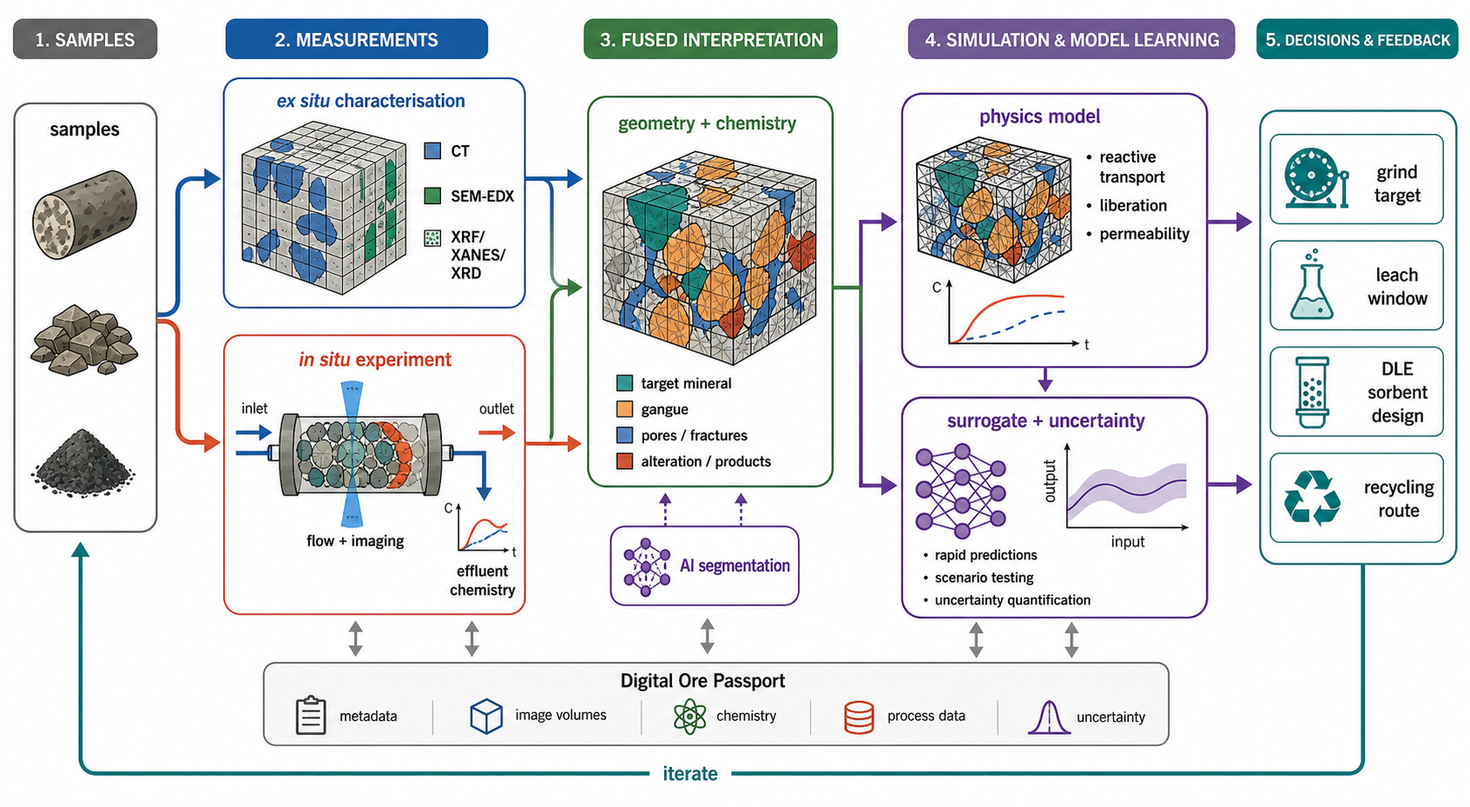
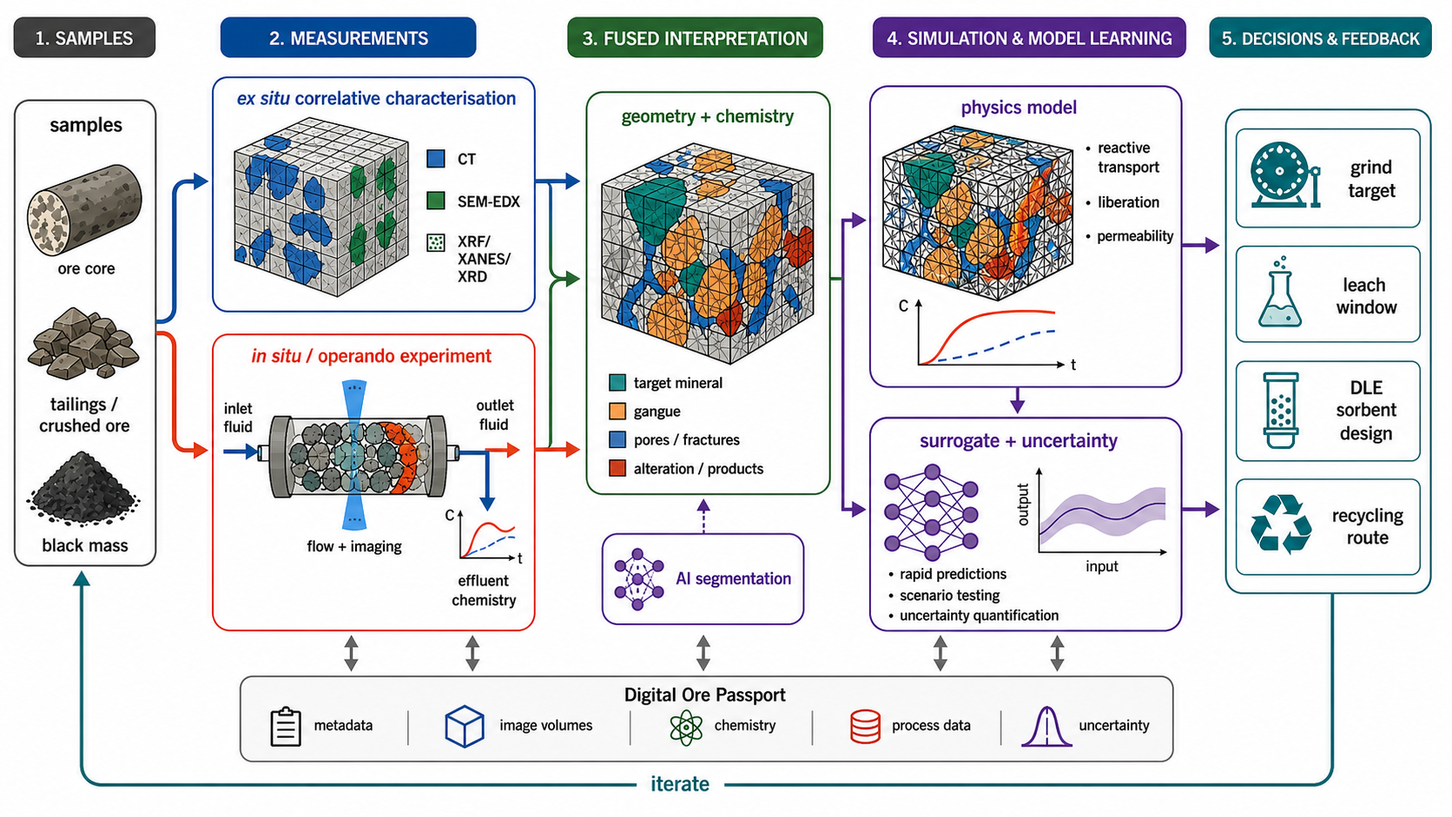
Incorporate coauthor revisions and update workflow figure

Changed region(s): [[0.0, 0.0, 0.9952, 0.9677]]

diff --git a/white_paper.tex b/white_paper.tex
@@ -22,7 +22,7 @@
 
 \title{\textbf{Unlocking the Microscale: How Digital Rock Physics Can Secure Supply Chains for UK and European Critical Minerals}}
 \author{%
-Hannah P. Menke$^{1,2}$, Alessio Scanziani$^{3}$, Maja Rücker$^{4,5}$\\[0.7em]
+Hannah P. Menke$^{1,2}$, Alessio Scanziani$^{3}$, Maja Rücker$^{4,5,6}$\\[0.7em]
 \begin{tabular}{c}
 \small $^{1}$Institute of GeoEnergy Engineering, Heriot-Watt University, Edinburgh, UK\\
 \small $^{2}$Subsurface Energy Transition and Innovation Centre,\\
@@ -30,7 +30,9 @@ Hannah P. Menke$^{1,2}$, Alessio Scanziani$^{3}$, Maja Rücker$^{4,5}$\\[0.7em]
 \small $^{3}$International Energy Agency, Paris, France\\
 \small $^{4}$Eindhoven University of Technology, Mechanical Engineering,\\
 \small 5600 MB, Eindhoven, The Netherlands\\
-\small $^{5}$Max Planck Institute for Polymer Research, 55128, Mainz, Germany
+\small $^{5}$Eindhoven Institute for Renewable Energy Systems,\\
+\small 5600 MB, Eindhoven, The Netherlands\\
+\small $^{6}$Max Planck Institute for Polymer Research, 55128, Mainz, Germany
 \end{tabular}}
 \date{\today}
 
@@ -39,20 +41,20 @@ Hannah P. Menke$^{1,2}$, Alessio Scanziani$^{3}$, Maja Rücker$^{4,5}$\\[0.7em]
 \maketitle
 
 \begin{abstract}
-The United Kingdom and Europe face acute supply chain vulnerabilities for Critical Raw Materials (CRMs) essential to the energy transition, high-tech industry, and defence. While the EU Critical Raw Materials Act (CRMA) sets 2030 benchmarks for domestic extraction, processing, and recycling, the UK's Vision 2035 sets a 2035 ambition for at least 10\% of aggregate annual UK critical-mineral demand to be met through domestic production, alongside greater circularity and supply-chain resilience. Many prospective regional resources remain underexplored, texturally complex, historically worked, or economically less forgiving than the globally dominant deposits that currently set market terms \cite{albert_crm_europe_2025, bgs_uk_crm_2022, uk_vision_2035_2026}. In such settings, even modest improvements in liberation, selectivity, recovery, and environmental performance can materially affect project viability. Yet many of the resulting decisions, from orebody evaluation to liberation, leaching, and recycling-route selection, are still made with limited three-dimensional information about texture, connectivity, and reactive pathways. The ``Digital Rocks'' or Digital Rock Physics (DRP) community, historically anchored in oil and gas, already offers a multiscale toolkit of 3D imaging, correlative chemistry, AI-enabled image analysis, and numerical modelling that can help close that gap. This white paper sets out a DRP-led framework linking those capabilities to ore characterisation, extraction technologies such as Direct Lithium Extraction (DLE), and mine waste valorisation. In this role, DRP could shorten evaluation times, reduce environmental impacts, strengthen environmental accountability, and strengthen the UK's and Europe's technological position in the race for secure, sustainable critical minerals.
+The United Kingdom and Europe face acute supply chain vulnerabilities for Critical Raw Materials (CRMs) essential to the energy transition, high-tech industry, and defence. While the EU Critical Raw Materials Act (CRMA) sets 2030 benchmarks for domestic extraction, processing, and recycling, the UK's Vision 2035 sets a 2035 ambition for at least 10\% of aggregate annual UK critical-mineral demand to be met through domestic production, alongside greater circularity and supply-chain resilience. Many prospective regional resources remain underexplored, texturally complex, historically worked, or economically less forgiving than the globally dominant deposits that currently set market terms \cite{albert_crm_europe_2025, bgs_uk_crm_2022, uk_vision_2035_2026}. In such settings, even modest improvements in liberation, selectivity, recovery, and environmental performance can materially affect project viability. Yet many of the resulting decisions, from orebody evaluation to liberation, leaching, and recycling-route selection, are still made with limited three-dimensional information about texture, connectivity, and reactive pathways. The ``Digital Rocks'' or Digital Rock Physics (DRP) community, historically anchored in oil and gas, already offers a multiscale toolkit of 3D imaging, correlative chemistry, AI-enabled image analysis, and numerical modelling that can help close that gap. This paper sets out a DRP-led framework linking those capabilities to ore characterisation, extraction technologies such as Direct Lithium Extraction (DLE), and mine waste valorisation. In this role, DRP could shorten evaluation times, reduce environmental impacts, strengthen environmental accountability, and strengthen the UK's and Europe's technological position in the race for secure, sustainable critical minerals.
 \end{abstract}
 
 \section{Context: The Geopolitical Imperative and the Global Race}
-The global transition to clean energy technologies has triggered rapidly rising demand for critical minerals such as lithium, cobalt, rare earth elements (REEs), and graphite. Recent review literature places this challenge in a wider geopolitical and technological context, emphasizing both resource security and processing capability as core bottlenecks \cite{reich_critical_2025}. Global lithium demand, for example, surged by nearly 30\% in 2024, even as mining exploration activity plateaued and investment growth slowed markedly \cite{iea_outlook_2025}. Consequently, achieving higher recovery and better resource efficiency from existing deposits is increasingly important, particularly in regions where the central challenge is not the absolute absence of mineralisation but the difficulty of turning complex occurrences into robust projects.
+The global transition to clean energy technologies has triggered rapidly rising demand for critical minerals such as copper, lithium, nickel, cobalt, rare earth elements (REEs), and graphite. Demand for other base metals such as aluminium and zinc, and strategic minor minerals such as titanium, tungsten, germanium, gallium, and antimony, is also rising because of expanding high-tech, aerospace, and defence sectors. Recent review literature places this challenge in a wider geopolitical and technological context, emphasizing both resource security and processing capability as core bottlenecks \cite{reich_critical_2025}. Global lithium demand, for example, surged by nearly 30\% in 2024, even as mining exploration activity plateaued and investment growth slowed markedly. Electrification of end uses is also driving increasing demand for copper; based on the current mine-project pipeline, a supply gap of up to 30\% could emerge by 2035, partly due to declining ore grades \cite{iea_outlook_2025}. Consequently, achieving higher recovery and better resource efficiency from existing deposits is increasingly important, particularly in regions where the central challenge is not the absolute absence of mineralisation but the difficulty of turning complex occurrences into robust projects.
 
 Compounding this issue is the hyper-concentration of the market. The IEA reports that the average market share of the top three refining nations for key energy minerals rose to 86\% in 2024 \cite{iea_outlook_2025}. In response, the EU Critical Raw Materials Act (CRMA) established 2030 benchmarks requiring 10\% extraction, 40\% processing, and 25\% recycling to occur domestically \cite{eu_crma_2024}. Concurrently, the UK's strategy focuses on resilient supply chains, domestic capability, and leveraging world-leading academic strengths \cite{uk_strategy_2022}. Recent European compilation work identifies more than 800 medium- to very-large hard-rock CRM deposits across 33 countries, but also stresses that continental-scale resource assessment remains uneven and that many published figures should be treated as rough lower-end estimates rather than directly comparable reserve statements \cite{albert_crm_europe_2025}. In the UK, BGS has identified multiple prospective CRM regions while stressing that they remain underexplored and require much more systematic research before commercial potential can be judged \cite{bgs_uk_crm_2022}. The latest UK Vision 2035 therefore sets an ambition for at least 10\% of aggregate annual demand to be met through domestic production by 2035, underscoring both the scale of present dependence and the need to improve recovery wherever viable resources can be developed \cite{uk_vision_2035_2026}.
 
-The United States is also investing heavily in advanced mining innovation through a layered translation ecosystem: regional consortia for resource and feedstock development, long-lived hub-style programmes for early-stage research, cross-laboratory facilities such as METALLIC for modelling, data, and process integration, and Mine of the Future proving grounds and national-laboratory calls that bridge bench-scale work to field demonstration \cite{doe_regional_consortia_2025, doe_cmi_2025, doe_metallic_2024, doe_motf_launch_2025}. This pattern of investment is closely aligned with the requirements of DRP, whose value depends on the integration of multimodal imaging, correlative chemistry, modelling, data infrastructure, and process validation within a single translational workflow. The UK and Europe are well placed to draw on strong existing DRP communities in academia and major facilities, to extend transatlantic collaboration, and to define a distinctive role in the critical-minerals technology stack. Europe has moved decisively on project designation and permitting through the CRMA, and the UK now signals additional support through Vision 2035, but a comparably visible experimental-and-modelling translation stack remains less developed \cite{eu_strategic_projects_2025, uk_vision_2035_2026}. For the UK and Europe, the issue is not simple replication of the US model, but the development of a credible programme built on existing strengths in synchrotron science, applied mineralogy, and geoscience infrastructure. Many prospective UK and European deposits are geologically heterogeneous, historically worked, or unlikely to compete on grade alone with the largest global suppliers. Moreover, the UK and Europe are densely populated, requiring particular attention to environmental impact, operational safety, and efficiency. In such settings, sustainability cannot be treated as an afterthought to resource security: it must be integrated into project design from the outset, both to reduce environmental burden and to secure the social and regulatory legitimacy without which new critical-mineral supply will remain difficult to deliver. Under those conditions, methods that improve orebody discrimination, liberation prediction, leach efficiency, recycling yields, or by-product determination by even a few percentage points have strategic value \cite{albert_crm_europe_2025, bgs_uk_crm_2022, calvo_copper_2016}.
+The United States is also investing heavily in advanced mining innovation through a layered translation ecosystem: regional consortia for resource and feedstock development, long-lived hub-style programmes for early-stage research, cross-laboratory facilities such as METALLIC for modelling, data, and process integration, and Mine of the Future proving grounds and national-laboratory calls that bridge bench-scale work to field demonstration \cite{doe_regional_consortia_2025, doe_cmi_2025, doe_metallic_2024, doe_motf_launch_2025}. The IEA has also established a Technology Collaboration Programme on Critical Minerals and Materials Recovery to coordinate technical expertise and national R\&D efforts around secondary and unconventional mineral resources \cite{iea_cmmr_tcp_2026}. This pattern of investment and global interest in new recovery technologies is closely aligned with the requirements of DRP, whose value depends on the integration of multimodal imaging, correlative chemistry, modelling, data infrastructure, and process validation within a single translational workflow. The UK and Europe are well placed to draw on strong existing DRP communities in academia and major facilities, to extend transatlantic collaboration, and to define a distinctive role in the critical-minerals technology stack. Europe has moved decisively on project designation and permitting through the CRMA, and the UK now signals additional support through Vision 2035, but a comparably visible experimental-and-modelling translation stack remains less developed \cite{eu_strategic_projects_2025, uk_vision_2035_2026}. For the UK and Europe, the issue is not simple replication of the US model, but the development of a credible programme built on existing strengths in synchrotron science, applied mineralogy, and geoscience infrastructure. Many prospective UK and European deposits are geologically heterogeneous, historically worked, or unlikely to compete on grade alone with the largest global suppliers. Moreover, the UK and Europe are densely populated, requiring particular attention to environmental impact, operational safety, and efficiency. In such settings, sustainability cannot be treated as an afterthought to resource security: it must be integrated into project design from the outset, both to reduce environmental burden and to secure the social and regulatory legitimacy without which new critical-mineral supply will remain difficult to deliver. Under those conditions, methods that improve orebody discrimination, liberation prediction, leach efficiency, recycling yields, or by-product determination by even a few percentage points have strategic value \cite{albert_crm_europe_2025, bgs_uk_crm_2022, calvo_copper_2016}.
 
 \section{The Digital Rocks Paradigm}
 Digital Rock Physics (DRP) is best understood here as a multiscale framework for resolving the three-dimensional structure of complex materials and linking that structure to transport, reaction, and process performance. While often associated primarily with X-ray micro-computed tomography ($\mu$CT), DRP spans a much broader set of imaging and analytical techniques, including medical and industrial CT, nano-CT, Positron Emission Tomography (PET), Magnetic Resonance Imaging (MRI), Nuclear Magnetic Resonance (NMR), Focused Ion Beam Scanning Electron Microscopy (FIB-SEM), and Helium Ion Microscopy (HIM). Coupled with image processing, such as AI-driven segmentation, and multi-scale modelling, these methods form a unified platform for tracking mass, charge, and fluid flow \cite{drp_blunt_2013}.
 
-Historically, this toolkit was developed to optimise hydrocarbon extraction and later CO$_2$ sequestration. However, the same methods are well suited to a broader class of mineral-systems problems in which three-dimensional texture, connectivity, and evolving fluid-mineral interactions control recovery. As the energy transition accelerates, this existing infrastructure---synchrotrons, lab-scale scanners, and supercomputing clusters---is well positioned for reorientation toward hard-rock mining and mineralogy.
+Historically, this toolkit was developed to optimise hydrocarbon extraction and later CO$_2$ sequestration. However, the same methods are well suited to a broader class of mineral-systems problems in which three-dimensional texture, connectivity, and evolving fluid-mineral interactions control recovery. The scientific study of porous materials, including through DRP, is closely intertwined with multiple energy applications, because porous materials can mediate the transfer of mass, charge, heat, radiation, and pressure across length, time, and energy scales \cite{farber_science_2025}. As the energy transition accelerates, this existing infrastructure---synchrotrons, lab-scale scanners, and supercomputing clusters---is well positioned for reorientation toward hard-rock mining and mineralogy.
 
 This perspective is related to, but distinct from, recent reviews of integrated geometallurgy and applied mineralogy across the mine life cycle \cite{lishchuk_integrated_2020, becker_applied_2023}. Those studies establish the importance of mineralogical heterogeneity, texture, and sustainability. DRP connects those concerns to specific technical decisions by combining analytical tools with imaging, AI-assisted analysis, multi-scale flow simulation, and data infrastructure within a single workflow.
 
@@ -216,13 +218,13 @@ Buyse et al. combined X-ray micro-CT with SEM-EDX automated mineralogy to resolv
 \section{Pillars III and IV: Optimising Mineral Processing, Extraction, and Engineered Materials}
 Critical mineral extraction is energy- and water-intensive at scale, and DRP offers several pathways for optimising these processes. Comminution (crushing and grinding), for example, is exceptionally energy-intensive: grinding alone accounts for approximately 3\% of global electricity generation and routinely exceeds 50\% of a single mine site's total power demand \cite{norgate_comminution_2010}. At the ore and process-test scale, improvements such as a roughly 14\% reduction in relative grindability index, from 0.93 to 0.80, to reach the same 80\% passing 74~$\mu$m grind size after inducing preferential intergranular breakage in magnetite ore, together with a 13.19\% increase in overall liberation, point to a plausible route for reducing comminution energy demand and improving downstream recovery if those effects persist under plant-scale operating conditions \cite{kyle_processing_2015, gao_hvep_2017}. DRP enables the microstructural characterisation of grain boundaries, fracture networks, and mineral associations that underpin these more selective strategies. When those image-derived descriptors are linked to ML models trained on process and assay data, the workflow can shift from retrospective diagnosis toward forward process optimisation, including adaptive grinding targets, breakage prediction, and faster flowsheet screening.
 
-Similarly, in operations such as in-situ and heap leaching, engineers can use dynamic imaging (e.g., PET or MRI) and pore-scale flow simulation to map leach-solution transport \cite{mri_heap_leach_2015}. That kind of process understanding can improve permeability management and dissolution efficiency while reducing unnecessary excavation. In this setting, surrogate models and physics-informed ML can be trained against time-resolved image volumes, effluent chemistry, and operating parameters to accelerate scenario testing and identify the variables most likely to improve contact efficiency or selective dissolution. DRP is also relevant to emerging direct extraction technologies. Engineered porous materials such as metal-organic frameworks (MOFs), ion sieves, and ion-selective membranes are increasingly being explored for lower-footprint separations, including lithium extraction from brines \cite{mofs_lithium_2026, mojid_dle_2024, baird_dle_2024}. In these systems, the key imaging target is often not the brine itself but the pore architecture, accessibility, degradation, and cycling behaviour of the sorbents or membranes that control selectivity and throughput; AI-assisted segmentation and reduced-order models can then be used to connect those structural changes to capacity fade, fouling, and operating windows.
+Similarly, in operations such as in-situ and heap leaching, used for example in the recovery of copper from low-grade ores, engineers can use dynamic imaging (e.g., PET or MRI) and pore-scale flow simulation to map leach-solution transport \cite{mri_heap_leach_2015}. That kind of process understanding can improve permeability management and dissolution efficiency while reducing unnecessary excavation. In this setting, surrogate models and physics-informed ML can be trained against time-resolved image volumes, effluent chemistry, and operating parameters to accelerate scenario testing and identify the variables most likely to improve contact efficiency or selective dissolution. DRP is also relevant to emerging direct extraction technologies. Engineered porous materials such as metal-organic frameworks (MOFs), ion sieves, and ion-selective membranes are increasingly being explored for lower-footprint separations, including lithium extraction from brines \cite{mofs_lithium_2026, mojid_dle_2024, baird_dle_2024}. In these systems, the key imaging target is often not the brine itself but the pore architecture, accessibility, degradation, and cycling behaviour of the sorbents or membranes that control selectivity and throughput; AI-assisted segmentation and reduced-order models can then be used to connect those structural changes to capacity fade, fouling, and operating windows.
 
 In situ DRP is most straightforward in fixed-solid or slowly evolving flow-through systems, where fluid movement can be interpreted against a stable pore structure. Agitated particle systems are still tractable, but they require substantially faster imaging and more careful time-resolved analysis because the geometry, contacts, and transport pathways evolve continuously during measurement.
 
 Across these examples, DRP shifts process decisions that would otherwise rest on bulk assay and empirical trial onto a microstructural footing. In comminution, this means targeting preferential breakage along grain boundaries rather than minimizing particle size indiscriminately, thereby reducing energy input while improving liberation. In heap leaching, it means identifying poorly contacted and preferential-flow regions before they propagate through a full-scale heap, where rectification is costly or impossible: MRI measurements in a drip-irrigated laboratory leach column found that more than 99\% of the liquid remained within 2 mm of the ore surface, while pore space 2--3 mm from the solid was only 2.0--4.4\% liquid-filled, indicating strongly localized wetting rather than uniform solution distribution \cite{mri_heap_leach_2015}. In DLE, it means detecting the early-stage pore blockage, phase transformation, or mechanical degradation in sorbent materials before measurable capacity loss appears at pilot scale, providing diagnostic information early enough to alter operating conditions or sorbent design. Just as importantly, these capabilities support more defensible environmental decisions by revealing where energy, water, and reagents are being used inefficiently and where lower-impact processing routes may be feasible. Structural and chemical evidence at the micron to sub-micron scale can therefore resolve process ambiguities that bulk measurements leave open, while AI-enabled segmentation, surrogate modelling, and experimental design can carry those insights into operating choices while intervention is still practical.
 
-Similarly, DRP insights can be extended to assess engineered materials derived from extracted products, such as porous battery electrodes, helping relate extraction quality directly to downstream product performance.
+Similarly, DRP insights can be extended to assess engineered materials derived from extracted products, such as porous battery electrodes, helping relate extraction quality directly to downstream product performance. In battery manufacturing, for example, the electrochemical performance of lithium-ion battery electrodes is strongly governed by their three-dimensional microstructure, including porosity, tortuosity, and phase connectivity. DRP techniques can therefore provide high-value insights for material design and performance optimisation while supporting the efficient use of critical minerals such as graphite, nickel, and cobalt.
 
 \section{Pillar V: Tailings Valorisation and the Circular Economy}
 Legacy mine tailings can contain unrecovered critical minerals---tellurium, antimony, and tungsten among them---at concentrations that may be economically significant in favourable site-specific settings; recovering them is central to both UK and EU circularity strategies. Recent reviews highlight both the strategic importance of reprocessing mine tailings and the opportunity to recover critical materials from them \cite{sarker_tailings_2022, araya_tailings_2020, nwaila_minewaste_2021}. 
@@ -230,6 +232,8 @@ Legacy mine tailings can contain unrecovered critical minerals---tellurium, anti
 To recycle these materials effectively, advanced sorting mechanisms need to be deployed and calibrated. Sensor-based sorting reviews in mineral processing point to preconcentration, waste reduction, and multi-sensor fusion as key opportunities for more selective treatment of heterogeneous feedstocks \cite{peukert_sorting_2022}. High-resolution 3D imaging can serve as a micro-scale calibration tool for these industrial sensors, while ML classifiers can use those image-derived labels to improve sensor fusion, particle discrimination, and route selection across heterogeneous waste streams. Multi-scale DRP methods can also be applied to unconventional secondary feedstocks such as coal refuse, fly ash, and acid mine drainage. In addition, techniques such as FIB-SEM and nano-CT can characterise e-waste and battery ``black mass'' at sub-micron scales to optimise both mechanical and chemical recycling pathways by mapping structural degradation and elemental composition \cite{battery_blackmass_2021}; in this setting, AI methods are well suited to phase identification, anomaly detection, and linking highly variable textures to downstream recovery performance.
 
 The central technical challenge in tailings and secondary resources is heterogeneity across multiple scales. Unlike primary ores, which retain the mineralogical architecture of the original deposit, tailings have been crushed, ground, chemically modified by reagents, and weathered over decades. The result is a highly variable feedstock in which critical mineral phases may be finely disseminated, encapsulated in gangue, partially oxidised, or intermixed with processing reagent residues. Conventional bulk assay can confirm that value is present but cannot resolve whether it is recoverable under a given process, at what liberation size, or with what lixiviant chemistry. Multi-scale DRP, combining macro-CT for particle-level sorting with FIB-SEM for phase-association and alteration mapping, provides the textural evidence needed to design a reprocessing flowsheet for a specific tailings deposit rather than applying a generic process template. AI extends that workflow by clustering particle populations, ranking recovery routes, and learning from linked texture-process-outcome datasets that are too heterogeneous for manual interpretation alone. The economic consequence is clear: flowsheet overdesign for heterogeneous tailings wastes reagent and energy, while underdesign leaves value in the discard.
+
+Because DRP reveals multiphysics and multiscale processes across mineral extraction, material design and manufacturing, and waste management, it could also complement life-cycle analysis (LCA). DRP may contribute to estimates of extraction efficiency, material efficiency, and energy efficiency, as well as the identification and quantification of potential side effects. Comparative standards in this domain would enable more predictive assessment of critical-mineral value chains before they are realised. By supporting considerations such as co-extraction of multiple minerals, integrated subsurface valorisation, for example through coupling with geothermal applications, and application-driven purification, DRP could contribute to the more efficient and sustainable use of mineral resources.
 
 \begin{tcolorbox}[enhanced, colback=green!3!white, colframe=green!35!black, title=\textbf{Illustrative Case Study: Black-Mass Characterisation}, fonttitle=\bfseries, arc=1.5mm, boxrule=0.8pt]
 Vanderbruggen et al. showed that automated mineralogy can characterise the composition and texture of spent lithium-ion batteries in ways that are directly relevant to recycling process design \cite{battery_blackmass_2021}. For a DRP-led critical-minerals agenda, this matters because it moves ``urban mining'' from bulk assay toward texture-aware process optimisation, where liberation, coating residues, and phase associations all influence recovery. The practical outcome is better discrimination between recycling routes and a clearer basis for process tuning.
@@ -303,56 +307,56 @@ Figure~\ref{fig:implementation_roadmap} translates these infrastructure prioriti
   connector/.style={line width=0.7pt, draw=black!28}
 ]
 
-\coordinate (y2027) at (2.45,0);
-\coordinate (y2028) at (6.15,0);
-\coordinate (y2030) at (9.85,0);
+\coordinate (y2028) at (2.45,0);
+\coordinate (y2030) at (6.15,0);
+\coordinate (y2032) at (9.85,0);
 \coordinate (y2035) at (13.55,0);
 
-\draw[line] (y2027) -- (y2030);
-\draw[arrow] (y2030) -- (14.45,0);
+\draw[line] (y2028) -- (y2032);
+\draw[arrow] (y2032) -- (14.45,0);
 
-\node[year, fill=blue!10] (n2027) at (y2027) {2027};
-\node[year, fill=cyan!10] (n2028) at (y2028) {2028};
-\node[year, fill=orange!12] (n2030) at (y2030) {2030};
+\node[year, fill=blue!10] (n2028) at (y2028) {2028};
+\node[year, fill=cyan!10] (n2030) at (y2030) {2030};
+\node[year, fill=orange!12] (n2032) at (y2032) {2032};
 \node[year, fill=green!10] (n2035) at (y2035) {2035};
 
-\node[card, fill=blue!4, below=0.85cm of n2027] (c2027) {%
+\node[card, fill=blue!4, below=0.85cm of n2028] (c2028) {%
   \textbf{Demonstrate}\\[2pt]
-  \mbox{DRP-to-processing pilot calls}\\
-  \mbox{Digital Ore Passport draft}\\
+  \mbox{DRP-to-processing pilots}\\
+  \mbox{Tripartite consortia}\\
   \mbox{Hard-rock, DLE, recycling cases}
 };
 
-\node[card, fill=cyan!4, above=0.85cm of n2028] (c2028) {%
-  \textbf{Standardise and share}\\[2pt]
+\node[card, fill=cyan!4, above=0.85cm of n2030] (c2030) {%
+  \textbf{Train and standardise}\\[2pt]
+  \mbox{Cross-disciplinary centres}\\
+  \mbox{Digital Ore Passport standard}\\
+  \mbox{Shared metadata requirements}
+};
+
+\node[card, fill=orange!5, below=0.85cm of n2032] (c2032) {%
+  \textbf{Share and benchmark}\\[2pt]
   \mbox{Federated Digital Ore Database}\\
   \mbox{First 100 benchmark datasets}\\
   \mbox{Cross-facility workflows}
 };
 
-\node[card, fill=orange!5, below=0.85cm of n2030] (c2030) {%
+\node[card, fill=green!4, above=0.85cm of n2035] (c2035) {%
   \textbf{Scale infrastructure}\\[2pt]
   \mbox{Geo-reactive platforms}\\
   \mbox{UK and European access nodes}\\
   \mbox{Shared data-compute workflows}\\
-  \mbox{EU CRMA benchmarks}
-};
-
-\node[card, fill=green!4, above=0.85cm of n2035] (c2035) {%
-  \textbf{Policy impact}\\[2pt]
   \mbox{Supports Vision 2035}\\
-  \mbox{Recovery and circularity gains}\\
-  \mbox{Decision support for CRM projects}
 };
 
-\draw[connector] (n2027.south) -- (c2027.north);
-\draw[connector] (n2028.north) -- (c2028.south);
-\draw[connector] (n2030.south) -- (c2030.north);
+\draw[connector] (n2028.south) -- (c2028.north);
+\draw[connector] (n2030.north) -- (c2030.south);
+\draw[connector] (n2032.south) -- (c2032.north);
 \draw[connector] (n2035.north) -- (c2035.south);
 
 \end{tikzpicture}%
 }
-\caption{Proposed implementation roadmap for a UK-European critical-minerals DRP programme. Near-term demonstrators and data standards provide the evidence base for shared benchmark datasets and a federated Digital Ore Database, followed by integrated geo-reactive infrastructure and mature decision-support workflows aligned with 2030 EU critical-raw-materials benchmarks and the UK's 2035 domestic-production ambition.}
+\caption{Proposed implementation roadmap for a UK-European critical-minerals DRP programme. Near-term demonstrators provide the evidence base for cross-disciplinary training and a Digital Ore Passport standard, followed by a federated Digital Ore Database, shared benchmark datasets, integrated geo-reactive infrastructure, and mature decision-support workflows aligned with the UK's 2035 domestic-production ambition.}
 \label{fig:implementation_roadmap}
 \end{figure}
 
@@ -368,23 +372,23 @@ drop fuzzy shadow, fonttitle=\bfseries, breakable, arc=1.5mm, boxrule=0.8pt,
 boxsep=1mm, left=1.5mm, right=1.5mm, top=1.2mm, bottom=1.2mm,
 toptitle=1mm, bottomtitle=1mm, fontupper=\footnotesize,
 before upper={\setlength{\parskip}{1.2pt}\setlength{\parindent}{0pt}}]
-\textbf{1. Launch Translational Demonstrators by 2027:}\\
-UKRI, Horizon Europe, and national innovation agencies should establish dedicated calls for DRP-to-processing demonstrators. Each project should require a tripartite consortium spanning imaging science, orebody owner or recycler, and process scale-up capability. An initial portfolio of three to five pilot projects, each moving from characterisation to pilot-plant decisions within 24--36 months, would provide a credible first step. This portfolio should include at least one hard-rock liberation case, one brine or DLE case, and one recycling or tailings case. Each project must end with a public benchmark dataset, a documented processing or recovery decision, and a head-to-head comparison against the conventional characterisation method it replaces. Such comparisons are currently sparse, yet they are essential if DRP is to secure sustained investment in critical-minerals applications.
+\textbf{1. Launch Translational Demonstrators by 2028:}\\
+UKRI, Horizon Europe, and national innovation agencies should establish dedicated calls for DRP-to-processing pilots and demonstrators. Each project should require a tripartite consortium spanning imaging science, orebody owner or recycler, and process scale-up capability. An initial portfolio of three to five pilot projects, each moving from characterisation to pilot-plant decisions within 24--36 months, would provide a credible first step. This portfolio should include at least one hard-rock liberation case, one brine or DLE case, and one recycling or tailings case. Each project must end with a public benchmark dataset, a documented processing or recovery decision, and a head-to-head comparison against the conventional characterisation method it replaces. Such comparisons are currently sparse, yet they are essential if DRP is to secure sustained investment in critical-minerals applications.
 
 \vspace{0.6mm}
-\textbf{2. Define a ``Digital Ore Passport'' Standard by 2027:}\\
-The European Critical Raw Materials Board, together with the relevant UK funding and geological-survey institutions, should convene EuroGeoSurveys, the British Geological Survey, national geological surveys, and major imaging facilities to publish a common minimum data specification for publicly supported mining, recycling, and tailings projects across the UK and Europe \cite{eu_crm_board_2026, bgs_uk_crm_2022, uk_vision_2035_2026}. The specification should include multi-modal imaging metadata, mineralogical ground truth, uncertainty estimates, machine-readable process descriptors, and standardized reporting for influent and effluent chemistry in reactive experiments. Adoption across publicly funded pilot projects on both sides by 2028 should be the target.
+\textbf{2. Build Workforce Capacity with Cross-Disciplinary Training Centres:}\\
+The UK and Europe should fund doctoral and industrial training centres focused on the intersection of imaging, machine learning, mineral processing, use, and recycling. The aim is not only to train students, but to build a talent pipeline capable of moving between beamlines, laboratories, software teams, and pilot plants. The training centres should address optimisation and sustainability for multiple critical-mineral value chains across different applications. Two to three centres, collectively supporting at least 40 jointly supervised researchers by 2030, would form a meaningful initial cohort.
 
 \vspace{0.6mm}
-\textbf{3. Stand Up a Federated UK-European Digital Ore Database by 2028:}\\
+\textbf{3. Define a ``Digital Ore Passport'' Standard by 2030:}\\
+The European Critical Raw Materials Board, together with the relevant UK funding and geological-survey institutions, should convene EuroGeoSurveys, the British Geological Survey, national geological surveys, and major imaging facilities to publish a common minimum data specification for publicly supported mining, recycling, and tailings projects across the UK and Europe \cite{eu_crm_board_2026, bgs_uk_crm_2022, uk_vision_2035_2026}. The specification should include multi-modal imaging metadata, mineralogical ground truth, uncertainty estimates, machine-readable process descriptors, and standardized reporting for influent and effluent chemistry in reactive experiments. Adoption across publicly funded pilot projects on both sides from 2030 onward should be the target.
+
+\vspace{0.6mm}
+\textbf{4. Stand Up a Federated UK-European Digital Ore Database by 2032:}\\
 The European Commission, UK agencies, national geological surveys, and major imaging facilities should create a shared repository with open metadata, benchmark datasets, and application programming interfaces for model development. The most practical route is to build this through EuroGeoSurveys' European Geological Data Infrastructure (EGDI), ensure interoperability with the JRC's Raw Materials Information System (RMIS), and provide a formally linked UK contribution rather than create isolated parallel platforms \cite{egdi_2026, rmis_2026, bgs_uk_crm_2022}. Earlier geoscience data-sharing efforts, including previous EGDI phases and INSPIRE-compliant national portals, have had limited uptake in practice, in part because data deposition has been voluntary, metadata standards have been inconsistently enforced, and long-term curation funding has often lapsed after initial project periods. A Digital Ore Database will face the same pressures unless deposition is made a condition of public funding from the outset, curation is resourced beyond the initial build phase, and the data schema is designed around the needs of downstream users, namely process engineers, geometallurgists, and ML developers, rather than around archival completeness alone. A suitable first milestone would be 100 well-annotated benchmark datasets covering hard-rock ores, tailings, and battery-recycling feedstocks within the first two years, alongside a small suite of shared reference materials and at least three validated cross-facility workflows spanning both the UK and continental Europe.
 
 \vspace{0.6mm}
-\textbf{4. Build Workforce Capacity with Cross-Disciplinary Training Centres:}\\
-The UK and Europe should fund doctoral and industrial training centres focused on the intersection of imaging, machine learning, mineral processing, and recycling. The aim is not only to train students, but to build a talent pipeline capable of moving between beamlines, laboratories, software teams, and pilot plants. Two to three centres, collectively supporting at least 40 jointly supervised researchers by 2030, would form a meaningful initial cohort.
-
-\vspace{0.6mm}
-\textbf{5. Build Integrated Geo-Reactive Endstations by 2030:}\\
+\textbf{5. Build Integrated Geo-Reactive Endstations by 2035:}\\
 Major facilities in the UK and Europe should co-invest in a small number of shared endstations that combine hard X-ray imaging with chemically sensitive mapping, synchronised outlet-fluid analysis, and dedicated GPU and CPU/HPC compute for reconstruction, simulation, and AI inference. These platforms should support brines, acidic and alkaline lixiviants, elevated temperatures and pressures, and controlled mechanical loading, with inline measurements such as ICP-OES/ICP-MS, pH/Eh, conductivity, and complementary spectroscopic probes. The first stage should focus on upgrading existing beamlines and laboratories; dedicated endstations should follow where user demand and demonstrator outcomes justify them. A practical near-term target is one UK platform and one to two continental European platforms, operated through coordinated access and common data standards, and configured for ores, tailings, and recycling feedstocks rather than only idealised model systems.
 \end{tcolorbox}
 \clearpage
@@ -534,6 +538,9 @@ HM Government, \textit{Vision 2035: Critical Minerals Strategy}, London, updated
 
 \bibitem{iea_outlook_2025}
 International Energy Agency (IEA), \textit{Global Critical Minerals Outlook 2025}, IEA, Paris, 2025. \url{https://www.iea.org/reports/global-critical-minerals-outlook-2025}.
+
+\bibitem{iea_cmmr_tcp_2026}
+International Energy Agency (IEA), ``Critical Minerals and Materials Recovery Technology Collaboration Programme (CMMR TCP),'' \textit{Technology Collaboration Programme: Cross-cutting}, 2026. \url{https://www.iea.org/programmes/technology-collaboration-programme/cross-cutting}. Accessed May 24, 2026.
 
 \bibitem{menke_hydrogen_2024}
 Jangda, Z., Menke, H., Busch, A., Geiger, S., Bultreys, T., \& Singh, K., ``Subsurface hydrogen storage controlled by small-scale rock heterogeneities,'' \textit{International Journal of Hydrogen Energy}, 72, 467--482, 2024. DOI: \url{https://doi.org/10.1016/j.ijhydene.2024.02.233}.

diff --git a/figure_workflow_prompt.md b/figure_workflow_prompt.md
@@ -42,10 +42,10 @@ Overall layout:
 
 Column 1: representative materials
 - Show a compact group of three stylised sample icons:
-  - an ore core or drill chip;
-  - a tailings particle or crushed ore particle;
-  - a black-mass / recycled battery-material powder icon.
-- Label this group only as "samples".
+  - an ore core or drill chip, labelled "ore core";
+  - a tailings particle or crushed ore particle, labelled "tailings / crushed ore";
+  - a black-mass / recycled battery-material powder icon, labelled "black mass".
+- Also label the overall group "samples".
 - Show the samples splitting into two arrows: one to the upper ex situ lane and one to the lower in situ lane.
 
 Column 2 upper lane: ex situ correlative characterisation
@@ -85,6 +85,7 @@ Column 4: simulation and model learning
 - Split this column into two stacked but connected blocks.
 - First block: physics-based image simulation.
   - Show the segmented volume becoming a mesh or pore-network model.
+  - The mesh / pore-network cube must have the same apparent dimensions, aspect ratio, and visual weight as the segmented "geometry + chemistry" cube in Column 3; do not squash, flatten, or shrink it.
   - Add flow arrows, a dissolution front, and a small output plot.
   - Label this block "physics model".
   - Include short tags: "reactive transport", "liberation", "permeability".
